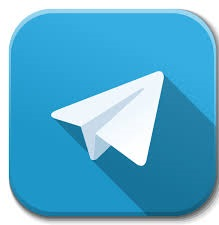
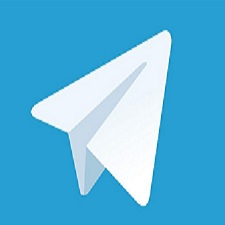
final

diff --git a/index.html b/index.html
@@ -1,0 +1,120 @@
+<!DOCTYPE html>
+<html>
+<head>
+	<meta charset="utf-8">
+	<link rel= "stylesheet" href= "style.css"/>
+	<title>CV G.Lajeune</title>
+	<div id="ensemble">
+	<h1 class="titrePrincipal">Gaétan Lajeune </h1>
+	<span id="description">Eleve ingenieur ECE Paris</span>
+	<br> 
+	<center><audio id="music" src=matrix.mp3 controls></audio></center> <br>
+</head>
+<body>
+	
+<nav class="menu">
+<ul>
+<li><a href = #introduction>Quelques mots</a></li>
+<li><a href = #experiences>Expériences</a></li>
+<li><a href = #formations>Formations</a></li>
+<li><a href = #contacts>Contacts</a></li>
+<li><a href = #formulaire>Formulaire</a></li> <br>
+</ul>
+</nav>
+
+
+<div id= "introduction">
+<p><h2>Quelques mots</h2>
+<img class="avatar" src="Terminator.jpg"/> <br> <br>
+Actuellement en deuxième année du cycle ingénieur à l’école d’ingénieur ECE Paris <br> à Paris en majeures OCRES (Objets Connectés Réseau Et Services).<br>
+Blockchain lover depuis 2017, je travaille activement dans ce domaine nottament sur l'aspect marketing des ICO et des STO.<br>
+Je suis convaincu que la technologie Blockchain boulversera durablement notre environnement. <br>
+Une fois l'obtention de mon diplôme, je compte réaliser <br> un master spécialisé afin de parfaire mes connaissances de cet écosystème. <br>
+</p>
+</div>
+
+<br>
+
+<div id = "experiences"> 
+<h2>Expériences</h2>
+<p> <span class ="poste">VENDEUR CAISSIER </span><br>
+<span class = "entreprise">Groupe Eyrolles </span><br> 
+<span class = "date">juillet 2019 - aout 2019 (2 mois)</span><br>
+<span class = "lieu">Région de Paris, France</span><br>
+Conseiller les clients sur les différents livres du rayon "Management et Bourse".<br>
+Tenir la caisse et réorganiser les rayons. <br><br>
+<span class = "poste">BOUNTY MANAGER</span><br>
+<span class="entreprise">ATAYEN, Inc. </span><br>
+<span class= "date">mai 2018 - janvier 2019 (8 mois)</span><br>
+<span class="lieu">Région de Paris, France</span><br>
+Mettre en place et gérer les Bountys afin d'aider ATAYEN Inc<br> à lever des fonds dans le cadre d'une ICO (Initial Coin Offering). <br> Modérer le topic officiel et le groupe Telegram<br> et répondre aux questions des investisseurs. <br><br>
+<span class ="poste">COMMUNITY MANAGER</span><br>
+<span class ="entreprise">WOMToken </span><br>
+<span class= "date">juillet 2018 - juillet 2018 (1 mois)</span><br> 
+<span class= "lieu">Région de Paris, France</span><br>
+Modérer le groupe Telegram officiel du projet et utiliser<br> mon expérience de Bounty manager pour mettre en place un Bounty. <br> Créer et modifier le topic officiel de l'ICO (Initial Coin Offering). <br>
+</p>
+</div>
+
+<div id="formations">
+<h2>Formations</h2>
+<p><span class= "poste"> Technická univerzita v Košiciach</span><br>
+<span class= "date">sept 2018 - janv 2019 (4 mois)</span><br> 
+<span class= "lieu">Kosice, Slovaquie</span><br>
+Semestre d'échange avec des cours en robotique, cryptographie et telecom.<br><br>
+<span class= "poste">Ecole centrale d'électronique (ECE) Paris</span><br>
+<span class="date">2016-2021</span><br>
+<span class="lieu">Paris, France</span><br>
+Etudiant en deuxième année du cycle ingénieur<br> en majeur Objets Connectés Réseaux Et Services (OCRES) avec option ingénierie d’affaire.
+<br>
+Participation à la coupe de France de robotique 2018 au nom de l'école.
+<br>
+Trésorier de l’association de robotique Eceborg.<br><br>
+<span class= "poste">Cours Bastide</span><br>
+<span class="date"> 2000-2016</span><br>
+<span class="lieu">Marseille, France</span><br>
+Baccalauréat, Section Scientifique, mention assez bien<br>
+<br>
+<br>
+</p>
+</div>
+
+<div id = "contacts">
+<h2>Contacts</h2>
+<p>
+	<a href= "https://telegram.me/Tramirostronix"><img src="telegram.jpg"></a>  
+	<a href = "https://www.linkedin.com/in/gaetanlajeune/"> <img  src="linkedin.png"> </a>
+	<a href = "mailto:gaetan.lajeune@edu.ece.fr"><img src="mail.png"></a>
+
+</div>
+</p>
+
+<div id="formulaire">
+<h2>Formulaire</h2>
+
+<form method="post" action="">
+    <p>
+        <label>Nom</label> : <input type="text" name="nom" /> <br>
+        <label>Prénom</label> : <input type="text" name="prenom" /> <br>
+         <label>Email</label> : <input type="email" name="email" required /> <br>
+        <span id="ameliorer">Votre demande marketing :</span><br>
+        <textarea name="demande" id="demande"></textarea> <br>
+        <input type="submit" value="Envoyer" /> <br>
+        <img src="tenor.gif">
+    </p>
+</form>
+</div>s
+</body>
+
+<footer>
+	<nav class="menu">
+<ul>
+<li><a href = #introduction>Quelques mots</a></li>
+<li><a href = #experiences>Expériences</a></li>
+<li><a href = #formations>Formations</a></li>
+<li><a href = #contacts>Contacts</a></li>
+<li><a href = #formulaire>Formulaire</a></li> <br>
+</ul>
+</nav>
+</footer>
+</html>

diff --git a/style.css b/style.css
@@ -1,0 +1,159 @@
+
+li {
+	display: inline;
+	margin: 0; 
+	padding: 0; 
+	text-align: center; 
+	}
+
+li a {
+	padding: 4px 20px ;
+  background: #3a758d ;
+  color: #fff ;
+  border: 2px groove grey ;
+  font: 1em;
+  line-height: 1em ;
+  text-align: center ;
+ text-decoration: none; 
+}
+
+#ensemble{
+	background-image:url(header.jpg);
+	background-repeat: no-repeat;
+	background-position: top; 
+	background-size: 100%; 
+	display: block; 
+
+
+}
+h1{
+	font-size: 4.5rem;
+	color: purple; 
+	font-weight: bold; 
+	text-align: center;
+	margin: 0; 
+	padding: 0;   
+}
+
+#description {
+	display: block;
+	text-align: center; 
+	color : pink;
+	font-weight: bold;
+	font-style: italic; 
+	font-size: 2.3rem;
+
+}
+
+#introduction {
+	text-align: center;
+	color : black;
+	font-size: 1.2rem;
+	font-weight: bold;  
+	background-image: url(mots.png);
+	background-repeat: no-repeat;
+	background-size: 100%
+	margin: auto;
+	padding: auto; 
+
+}
+
+.avatar {
+
+	width : 25.0rem;
+	text-align: center;
+}
+
+
+
+#introduction {
+	text-align: center; 
+	font-size: 1.5rem; 
+	font-weight: : bold;
+	
+
+}
+
+
+.menu {
+
+	text-align: center; 
+	font-size: 2.0rem; 
+	 
+}
+
+#experiences {
+	text-align: center; 
+	font-size: 1.5rem;
+	background-image: url(altcoin.jpg); 
+	background-repeat: no-repeat;
+	background-size: 100%; 
+}
+
+.poste {
+	color: purple; 
+	font-weight: bold;
+	font-size: 2.0rem;  
+}
+
+.entreprise {
+	color : purple;
+	font-size: 1.8rem; 
+}
+
+
+.date {
+	font-weight: bold; 
+	font-size: 1.3rem; 
+}
+
+.lieu {
+	color: grey; 
+	font-size: 1.3rem;
+	font-weight: bold; 
+}
+
+#formations {
+	text-align: center; 
+	font-size: 1.5rem;
+	background-image: url(formation.png);
+	background-repeat: no-repeat;
+	background-size: 100%;  
+}
+
+
+#contacts {
+	text-align: center;
+	 background: rgb(238,174,202);
+background: radial-gradient(circle, rgba(238,174,202,1) 0%, rgba(148,187,233,1) 100%); 
+
+
+}
+
+#contacts img {
+	border: groove 5px black; 
+}
+
+h2{
+	font-size: 50px; 
+	font-weight: bold; 
+}
+
+#formulaire {
+	text-align: center; 
+	font-size: 2.2rem; 
+	 background: rgb(131,58,180);
+background: linear-gradient(90deg, rgba(131,58,180,1) 0%, rgba(253,29,29,1) 50%, rgba(252,176,69,1) 100%); 
+ 
+ 
+}
+
+
+input {
+	font-size: 2.2rem;  
+	margin: 10px;  
+}
+
+textarea {
+	font-size: 2.2rem; 
+}
